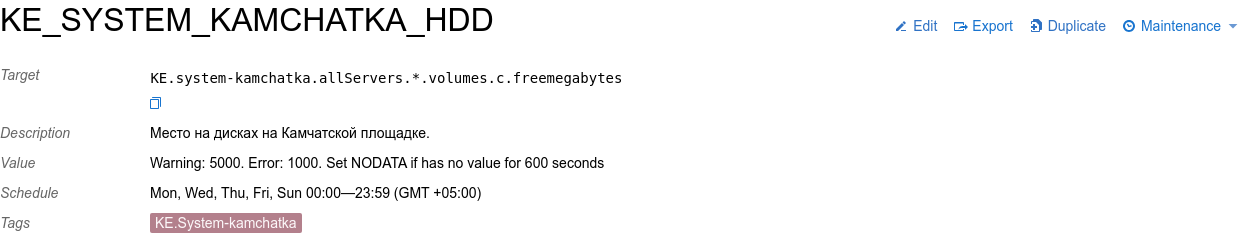
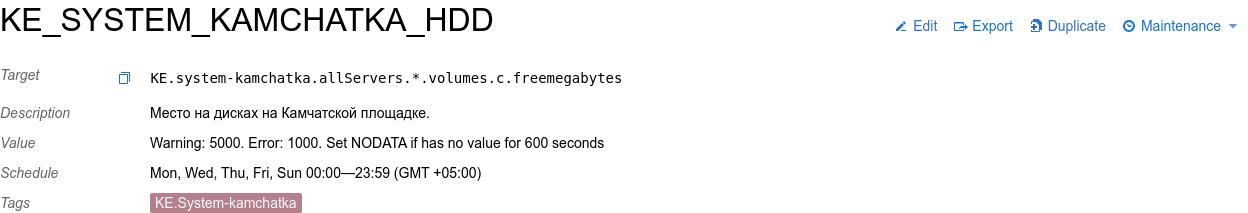
after review

diff --git a/src/Components/TriggerInfo/TriggerInfo.tsx b/src/Components/TriggerInfo/TriggerInfo.tsx
@@ -24,7 +24,7 @@ import RouterLink from "../RouterLink/RouterLink";
 import FileExport from "../FileExport/FileExport";
 import MaintenanceSelect from "../MaintenanceSelect/MaintenanceSelect";
 import { CodeEditor } from "../HighlightInput/CodeEditor";
-import { Gapped } from "@skbkontur/react-ui";
+import { Gapped, Hint } from "@skbkontur/react-ui";
 import { CopyButton } from "../TriggerEditForm/CopyButton";
 
 import classNames from "classnames/bind";
@@ -195,15 +195,17 @@ export default function TriggerInfo({
                     <Gapped vertical gap={10}>
                         {targets.map((target, i) => (
                             <>
+                                <div className={cn("copyButtonWrapper")}>
+                                    <Hint text="Copy without formatting">
+                                        <CopyButton className={cn("copyButton")} value={target} />
+                                    </Hint>
+                                </div>
                                 <CodeEditor
                                     triggerSource={triggerSource}
                                     disabled
                                     key={i}
                                     value={target}
                                 />
-                                <div className={cn("copyButton")}>
-                                    <CopyButton value={target} />
-                                </div>
                             </>
                         ))}
                     </Gapped>

diff --git a/src/Components/TriggerEditForm/TriggerEditForm.tsx b/src/Components/TriggerEditForm/TriggerEditForm.tsx
@@ -4,7 +4,7 @@ import { Remarkable } from "remarkable";
 import { sanitize } from "dompurify";
 import RemoveIcon from "@skbkontur/react-icons/Remove";
 import AddIcon from "@skbkontur/react-icons/Add";
-import { Checkbox, Input, Textarea, Button, Tabs } from "@skbkontur/react-ui";
+import { Checkbox, Input, Textarea, Button, Tabs, Hint } from "@skbkontur/react-ui";
 import { RowStack, Fill, Fit } from "@skbkontur/react-stack-layout";
 import {
     DEFAULT_TRIGGER_TTL,
@@ -228,7 +228,9 @@ export default class TriggerEditForm extends React.Component<Props, State> {
                                     </Fit>
                                 )}
                             </RowStack>
-                            <CopyButton className={cn("copyButton")} value={x} />
+                            <Hint text="Copy without formatting">
+                                <CopyButton className={cn("copyButton")} value={x} />
+                            </Hint>
                         </div>
                     ))}
                     <Button use="link" icon={<AddIcon />} onClick={() => this.handleAddTarget()}>

diff --git a/src/Components/TriggerInfo/TriggerInfo.less b/src/Components/TriggerInfo/TriggerInfo.less
@@ -53,8 +53,14 @@
     }
 }
 
+.copyButtonWrapper {
+    position: relative;
+}
+
 .copyButton{
-    margin-left: 11px;
+    position: absolute;
+    top: 5px;
+    left: -20px;
 }
 
 .maintenance-info {
